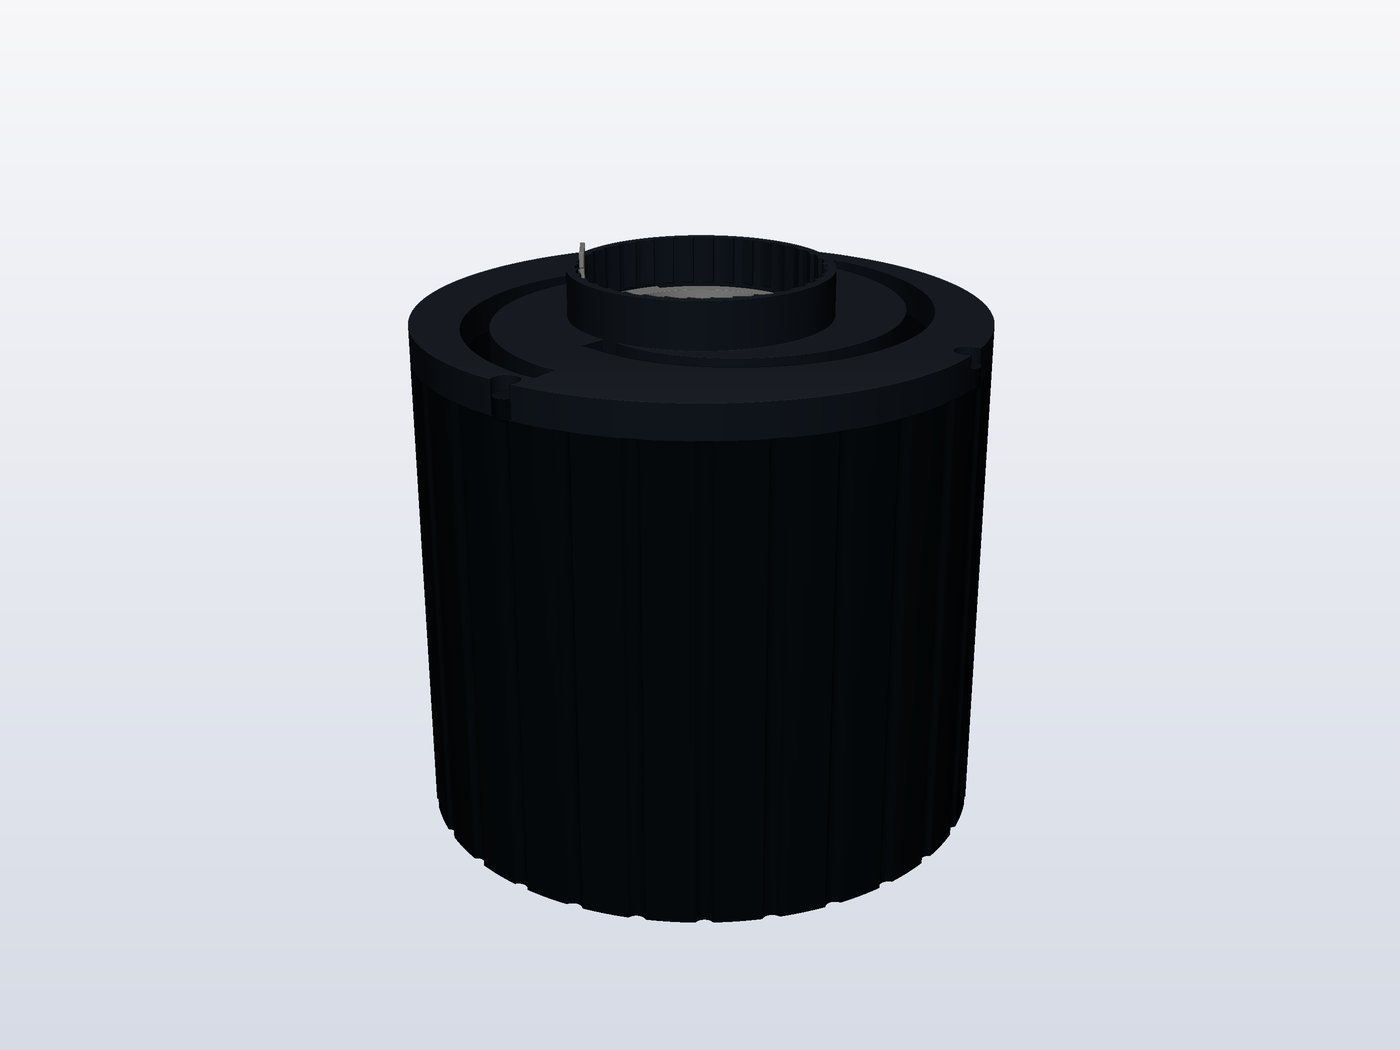
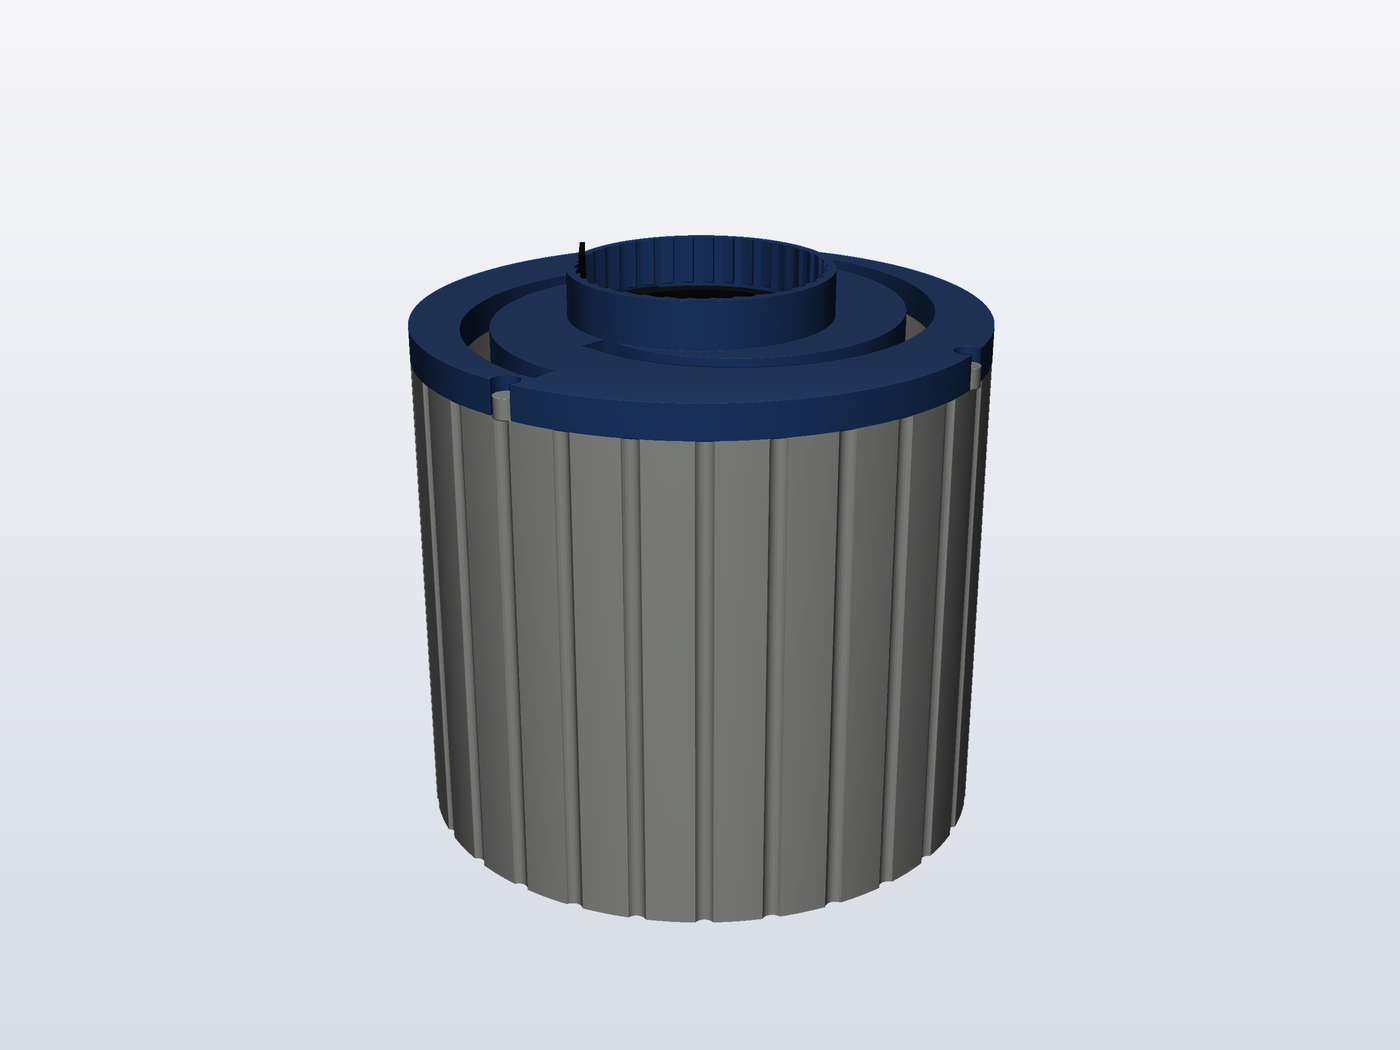
twist-grip: one palette for every render, and part portraits
Black body, milky pink blades, white shell, blue cap -- four filaments
actually on the shelf, and the same colour for a part wherever it appears.

Adds a portrait of each part on its own in the pose it has in the object,
an exploded view, and assembled views open and shut, all under one
presentation light.

Two things learned making them, both written down where the next person
will hit them:

- these are RENDER colours, not swatches. Flat shading multiplies a colour
  by a factor under 1, so a colour entered at its true value only ever
  comes back darker than the filament -- milky pink landed on mauve. Each
  value is now the filament lifted to survive that;
- the default lighting is set up for CATCHING MISTAKES, with a low ambient
  that throws every facet into relief. That is wrong for looking at the
  object: it crushes a black part to a silhouette with no form in it. The
  presentation shots carry their own light, and the diagnostic ones keep
  the old one.

The exploded view also needed the parts pulled much further apart than
looked necessary -- at half the spacing the body still sat down inside the
shell and the whole thing read as an assembled object with a floating lid.

Geometry is untouched: the STLs are byte-identical, and all 75 checks
still pass.

Claude-Session: https://claude.ai/code/session_01BfCgrzXtRn8srHGcxKgT97

Changed region(s): [[0.2764, 0.2133, 0.7064, 0.8838]]

diff --git a/twist-grip/build.py b/twist-grip/build.py
@@ -215,7 +215,7 @@ def render_down_the_bore(phi: float, name: str, fast: bool):
     cam = {"eye": (0.0, 0.0, st.cap_top + dist), "target": (0.0, 0.0, 0.0),
            "fov_deg": fov}
     img = R.render(ps, width=w, height=h, supersample=ss,
-                   ambient=0.62, key=0.42, fill=0.30, spec=0.10, edges=0.42,
+                   ambient=0.66, key=0.40, fill=0.30, spec=0.10, edges=0.42,
                    **cam)
     if fast:
         _save(img, name)
@@ -283,6 +283,130 @@ def render_comb(name: str, fast: bool):
     _save(R.render(ps, width=w, height=h, supersample=ss, **cam), name)
 
 
+# Presentation lighting. The default is lit for CATCHING MISTAKES -- a low
+# ambient throws every facet into relief -- but it multiplies each colour by
+# about 0.7, which turns a milky pink into mauve and a black part into a
+# silhouette with no form in it. These shots are for looking at the object,
+# so: more ambient, and keep the edge pass to give the black part its shape.
+SHOW = dict(ambient=0.74, key=0.34, fill=0.20, spec=0.12, edges=0.46)
+
+PART_COLOURS = {"shell": P.COL_SHELL, "body": P.COL_BODY,
+                "cap": P.COL_CAP, "jaw": P.COL_JAW}
+
+PART_VIEWS = {"shell": (34, 26), "body": (34, 18), "cap": (34, 30),
+              "jaw": (28, 20)}
+
+
+def _assembled_parts(phi=0.0):
+    """Each part once, in the pose it has in the object."""
+    st = P.STACK
+    j = T.jaw(phi, 0)
+    return {"shell": T.spun(T.shell(st), phi), "body": T.body(st),
+            "cap": T.spun(T.cap(st), phi), "jaw": j}
+
+
+def render_portrait(key: str, name: str, fast: bool):
+    """One part on its own, in the orientation it sits in the object."""
+    w, h, ss = _size(fast)
+    m = _assembled_parts()[key]
+    az, el = PART_VIEWS[key]
+    cam = R.frame([m], azimuth_deg=az, elevation_deg=el, margin=1.03)
+    _save(R.render([{"mesh": m, "color": PART_COLOURS[key]}],
+                   width=w, height=h, supersample=ss, **SHOW, **cam), name)
+
+
+def render_body_end(end: str, name: str, fast: bool):
+    """The body's top or bottom end, close up and named.
+
+    DRAWN IN GREY, not the body's black. Flat shading multiplies a colour by
+    a factor under 1, so a black part comes back black whatever the light
+    does -- no lugs, no boss, no post, just a silhouette. The assembly shots
+    carry the real colour; this one has to be legible.
+
+    Framed on a slab of the part rather than the whole of it: the camera is
+    aimed with a cropped copy, but the whole body is drawn, so the end fills
+    the shot without anything looking cut off.
+    """
+    w, h, ss = _size(fast)
+    st = P.STACK
+    body = T.body()
+    top = end == "top"
+    z0, z1 = ((st.topring_0 - 10.0, st.post_top) if top
+              else (st.ring_0, st.ring_top + 10.0))
+    proxy = T.keep_both(body, T.tube(0.0, P.OVERALL_D, z0, z1))
+    cam = R.frame([proxy], azimuth_deg=40,
+                  elevation_deg=52 if top else -52, margin=1.06)
+    img = R.render([{"mesh": body, "color": (0.60, 0.62, 0.66)}],
+                   width=w, height=h, supersample=ss, ambient=0.5, key=0.5,
+                   fill=0.26, spec=0.2, edges=0.55, **cam)
+    if fast:
+        _save(img, name)
+        return
+
+    def at(r, deg, z):
+        a = math.radians(deg)
+        return (r * math.cos(a), r * math.sin(a), z)
+
+    if top:
+        items = [
+            {"at": at(P.TOP_LUG_OUT, P.TOP_LUG_ANGLES[0],
+                      (st.topring_0 + st.topring_1) / 2), "dir": (1, 0),
+             "text": "top lugs (3) — the cap's hook catches under these"},
+            {"at": at(P.POST_R_OUT, P.PAWL_ANGLE, st.post_top - P.PAD_T / 2),
+             "dir": (-1, 0), "text": "pawl post, and the pad you press"},
+            {"at": at(P.BORE_D / 2, 150.0, st.topring_1), "dir": (0, 1),
+             "text": f"{P.BORE_D:.0f} mm bore, straight through"},
+        ]
+    else:
+        items = [
+            {"at": at(P.LUG_R_OUT, P.LUG_ANGLES[1],
+                      (st.lug_z0 + st.lug_z1) / 2), "dir": (1, 0),
+             "text": "bottom lugs (3) — hook under the shell's lip"},
+            {"at": at(P.SKIRT_OD / 2, 200.0, P.RING_T / 2), "dir": (-1, 0),
+             "text": "skirt — this is what turns in the shell's bore"},
+            {"at": at(P.BODY_ARC_R_OUT, 90.0, P.RING_T + 6.0), "dir": (0, 1),
+             "text": "the step here is the shoulder it stands on"},
+        ]
+    _callouts(img, cam, w, h, items)
+    _save(img, name)
+
+
+def render_exploded(name: str, fast: bool):
+    """The four parts pulled apart along the axis, in assembly order."""
+    w, h, ss = _size(fast)
+    parts = _assembled_parts()
+    # Far enough that each part visibly clears the one below it. At half
+    # this, the body still sits down inside the shell and the picture reads
+    # as an assembled object with a floating lid.
+    lift = {"shell": 0.0, "body": 126.0, "jaw": 126.0, "cap": 258.0}
+    out_r = {"jaw": 60.0}
+    ps = []
+    for key in ("shell", "body", "jaw", "cap"):
+        for k in range(2 if key == "jaw" else 1):
+            m = (T.jaw(0.0, k) if key == "jaw" else parts[key]).copy()
+            a = math.radians(S.JAW_ANGLES[k]) if key == "jaw" else 0.0
+            dr = out_r.get(key, 0.0)
+            m.apply_translation((dr * math.cos(a), dr * math.sin(a),
+                                 lift[key]))
+            ps.append({"mesh": m, "color": PART_COLOURS[key]})
+    cam = R.frame([p["mesh"] for p in ps], azimuth_deg=36, elevation_deg=14,
+                  margin=1.01)
+    _save(R.render(ps, width=int(w * 0.72), height=int(h * 1.55),
+                   supersample=ss, **SHOW, **cam), name)
+
+
+def render_together(phi: float, name: str, fast: bool):
+    """The same four parts, assembled, same colours, same light."""
+    w, h, ss = _size(fast)
+    ps = [{"mesh": m, "color": PART_COLOURS[k]}
+          for k, m in _assembled_parts(phi).items()]
+    ps += [{"mesh": T.jaw(phi, 1), "color": P.COL_JAW}]
+    cam = R.frame([p["mesh"] for p in ps], azimuth_deg=36, elevation_deg=20,
+                  margin=1.03)
+    _save(R.render(ps, width=w, height=h, supersample=ss, **SHOW, **cam),
+          name)
+
+
 def render_parts(name: str, fast: bool):
     """The four printed parts, as they are oriented on the bed."""
     w, h, ss = _size(fast)
@@ -346,6 +470,14 @@ def main(argv=None):
                              a.fast)
         render_ratchet(0.0, "12-ratchet.png", a.fast)
         render_comb("13-fit-comb.png", a.fast)
+        for key in ("shell", "body", "cap", "jaw"):
+            render_portrait(key, f"2{list(PART_COLOURS).index(key)}-part-{key}.png", a.fast)
+        render_exploded("24-exploded.png", a.fast)
+        render_together(0.0, "25-together-open.png", a.fast)
+        render_together(P.TWIST_SWEEP, "26-together-shut.png",
+                        a.fast)
+        render_body_end("top", "27-body-top.png", a.fast)
+        render_body_end("bottom", "28-body-bottom.png", a.fast)
 
     print("\n" + "-" * 78)
     print(S.summary())

diff --git a/twist-grip/params.py b/twist-grip/params.py
@@ -305,10 +305,17 @@ BED = (325.0, 320.0)
 NOZZLE = 0.4
 LAYER = 0.2
 
-COL_SHELL = (0.05, 0.08, 0.10)         # PETG Basic, black
-COL_BODY = (0.93, 0.94, 0.92)          # PETG Basic, white
-COL_JAW = (0.95, 0.42, 0.05)           # PETG Basic, orange
-COL_CAP = (0.13, 0.17, 0.22)           # black too, drawn a shade apart
+# Every render uses these, so a part is the same colour wherever you see it.
+# All four are filament actually on the shelf -- see ../available-tools.md.
+#
+# These are RENDER colours, not swatches. Flat shading multiplies a colour by
+# a shade factor that is always under 1, so a colour entered at its true
+# value only ever comes out darker than the filament -- a milky pink lands on
+# mauve. Each of these is the filament lifted to survive that.
+COL_SHELL = (0.96, 0.97, 0.95)         # jade white / PETG white
+COL_BODY = (0.055, 0.07, 0.085)        # black
+COL_JAW = (1.00, 0.74, 0.82)           # PLA Pure, milky pink
+COL_CAP = (0.20, 0.38, 0.70)           # blue / PETG reflex blue
 COL_CUT = (0.62, 0.64, 0.68)
 
 DEG = math.pi / 180.0
